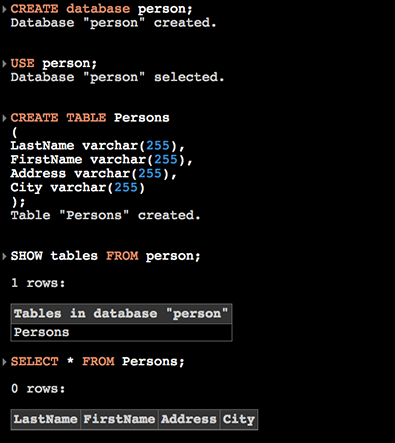
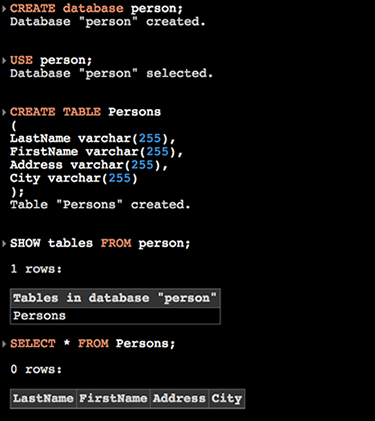
changes

diff --git a/index.md b/index.md
@@ -25,7 +25,7 @@ database. Each database table has a corresponding "Model" which is used to inter
 <h2 class="col">JSSQL Supports</h2>
 JSSQL supports commands as "USE", "SHOW", "CREATE", "DROP", "INSERT" and "SELECT".
 
-
+<img src="images/database1.png" alt="alt text" title="Title"/>
 </div>
 
 <div class="posts col-md-4">
